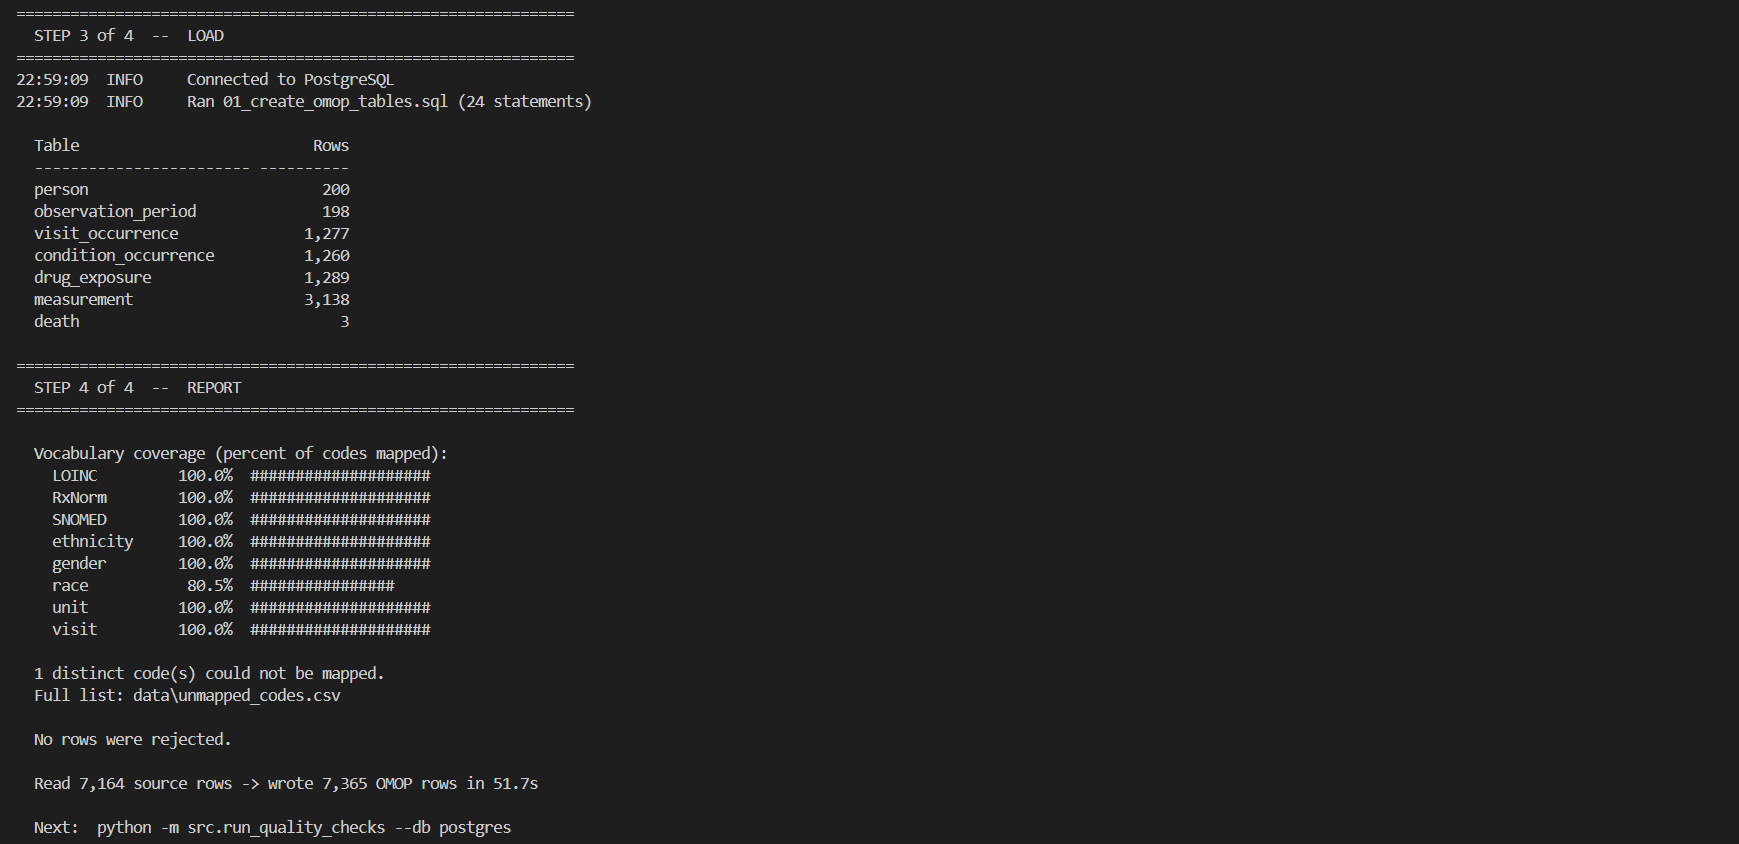
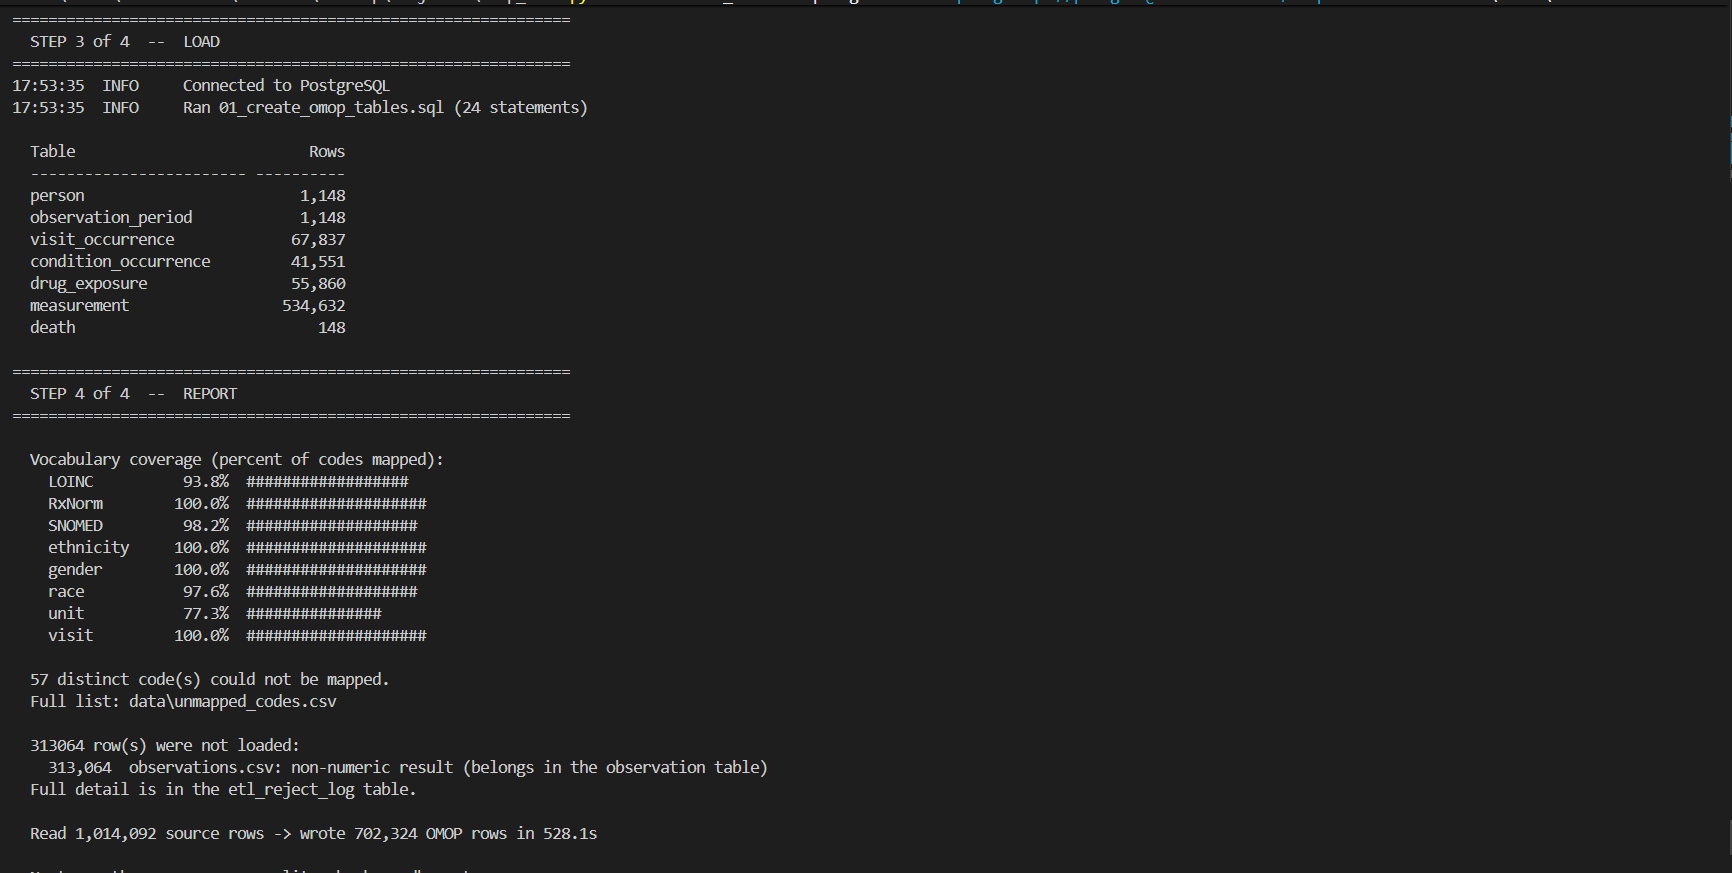
Map 24 UCUM units; document dimensionless annotations
- Unit coverage 64.4% -> X%
- K/uL mapped to thousand-per-microliter, not the Kelvin concept UCUM
  string-matches to
- {score}/{count}/{presence} left at concept_id 0 by design

diff --git a/src/vocabulary.py b/src/vocabulary.py
@@ -105,6 +105,30 @@ UNIT = {
     "%":      8554,
     "/min":   8541,
     "mmol/L": 8753,
+    # --- added after real Synthea data (UCUM concepts from Athena) ---
+    "a":            9448,   # year
+    "s":            8555,   # second
+    "mm":           8588,   # millimeter
+    "Cel":        586323,   # degree Celsius
+    "pH":           8482,   # pH
+    "fL":           8583,   # femtoliter
+    "pg":           8564,   # picogram
+    "g/L":          8636,   # gram per liter
+    "mg/L":         8751,   # milligram per liter
+    "mg/g":         8723,   # milligram per gram
+    "ug/L":         8748,   # microgram per liter
+    "ug/dL":        8837,   # microgram per deciliter
+    "ug/mL":        8859,   # microgram per milliliter
+    "ng/L":         8725,   # nanogram per liter
+    "ng/mL":        8842,   # nanogram per milliliter
+    "pg/mL":        8845,   # picogram per milliliter
+    "mL/min":       8795,   # milliliter per minute
+    "10*3/uL":      8848,   # thousand per microliter
+    "10*6/uL":      8815,   # million per microliter
+    "/uL":          8647,   # per microliter
+    "/[HPF]":       8786,   # per high power field
+    "[iU]/L":       8923,   # international unit per liter
+    "{copies}/mL":  8799,   # copies per milliliter
 }
 
 # "Type" concepts describe WHERE a record came from, not what it says.

diff --git a/lookup_unit.py b/lookup_unit.py
@@ -1,0 +1,21 @@
+"""Look up a unit's OMOP concept_id in the Athena vocabulary.
+
+    python lookup_unit.py mg/dL
+        # "K/uL" is thousands per microliter (a cell count), NOT Kelvin.
+    # UCUM string-matches it to 8792 "Kelvin per microliter" -- wrong unit,
+    # wrong dimension. Mapped deliberately to match 10*3/uL.
+    "K/uL":         8848,   # thousand per microliter
+
+"""
+import csv, sys
+from pathlib import Path
+
+wanted = sys.argv[1]
+with Path("data/vocab/athena/CONCEPT.csv").open(encoding="utf-8", newline="") as fh:
+    for row in csv.DictReader(fh, delimiter="\t"):
+        if row["vocabulary_id"] == "UCUM" and row["concept_code"] == wanted:
+            print(f"{row['concept_id']}  {row['concept_name']}  "
+                  f"(standard={row['standard_concept'] or 'no'})")
+            break
+    else:
+        print(f"'{wanted}' not found in UCUM")
